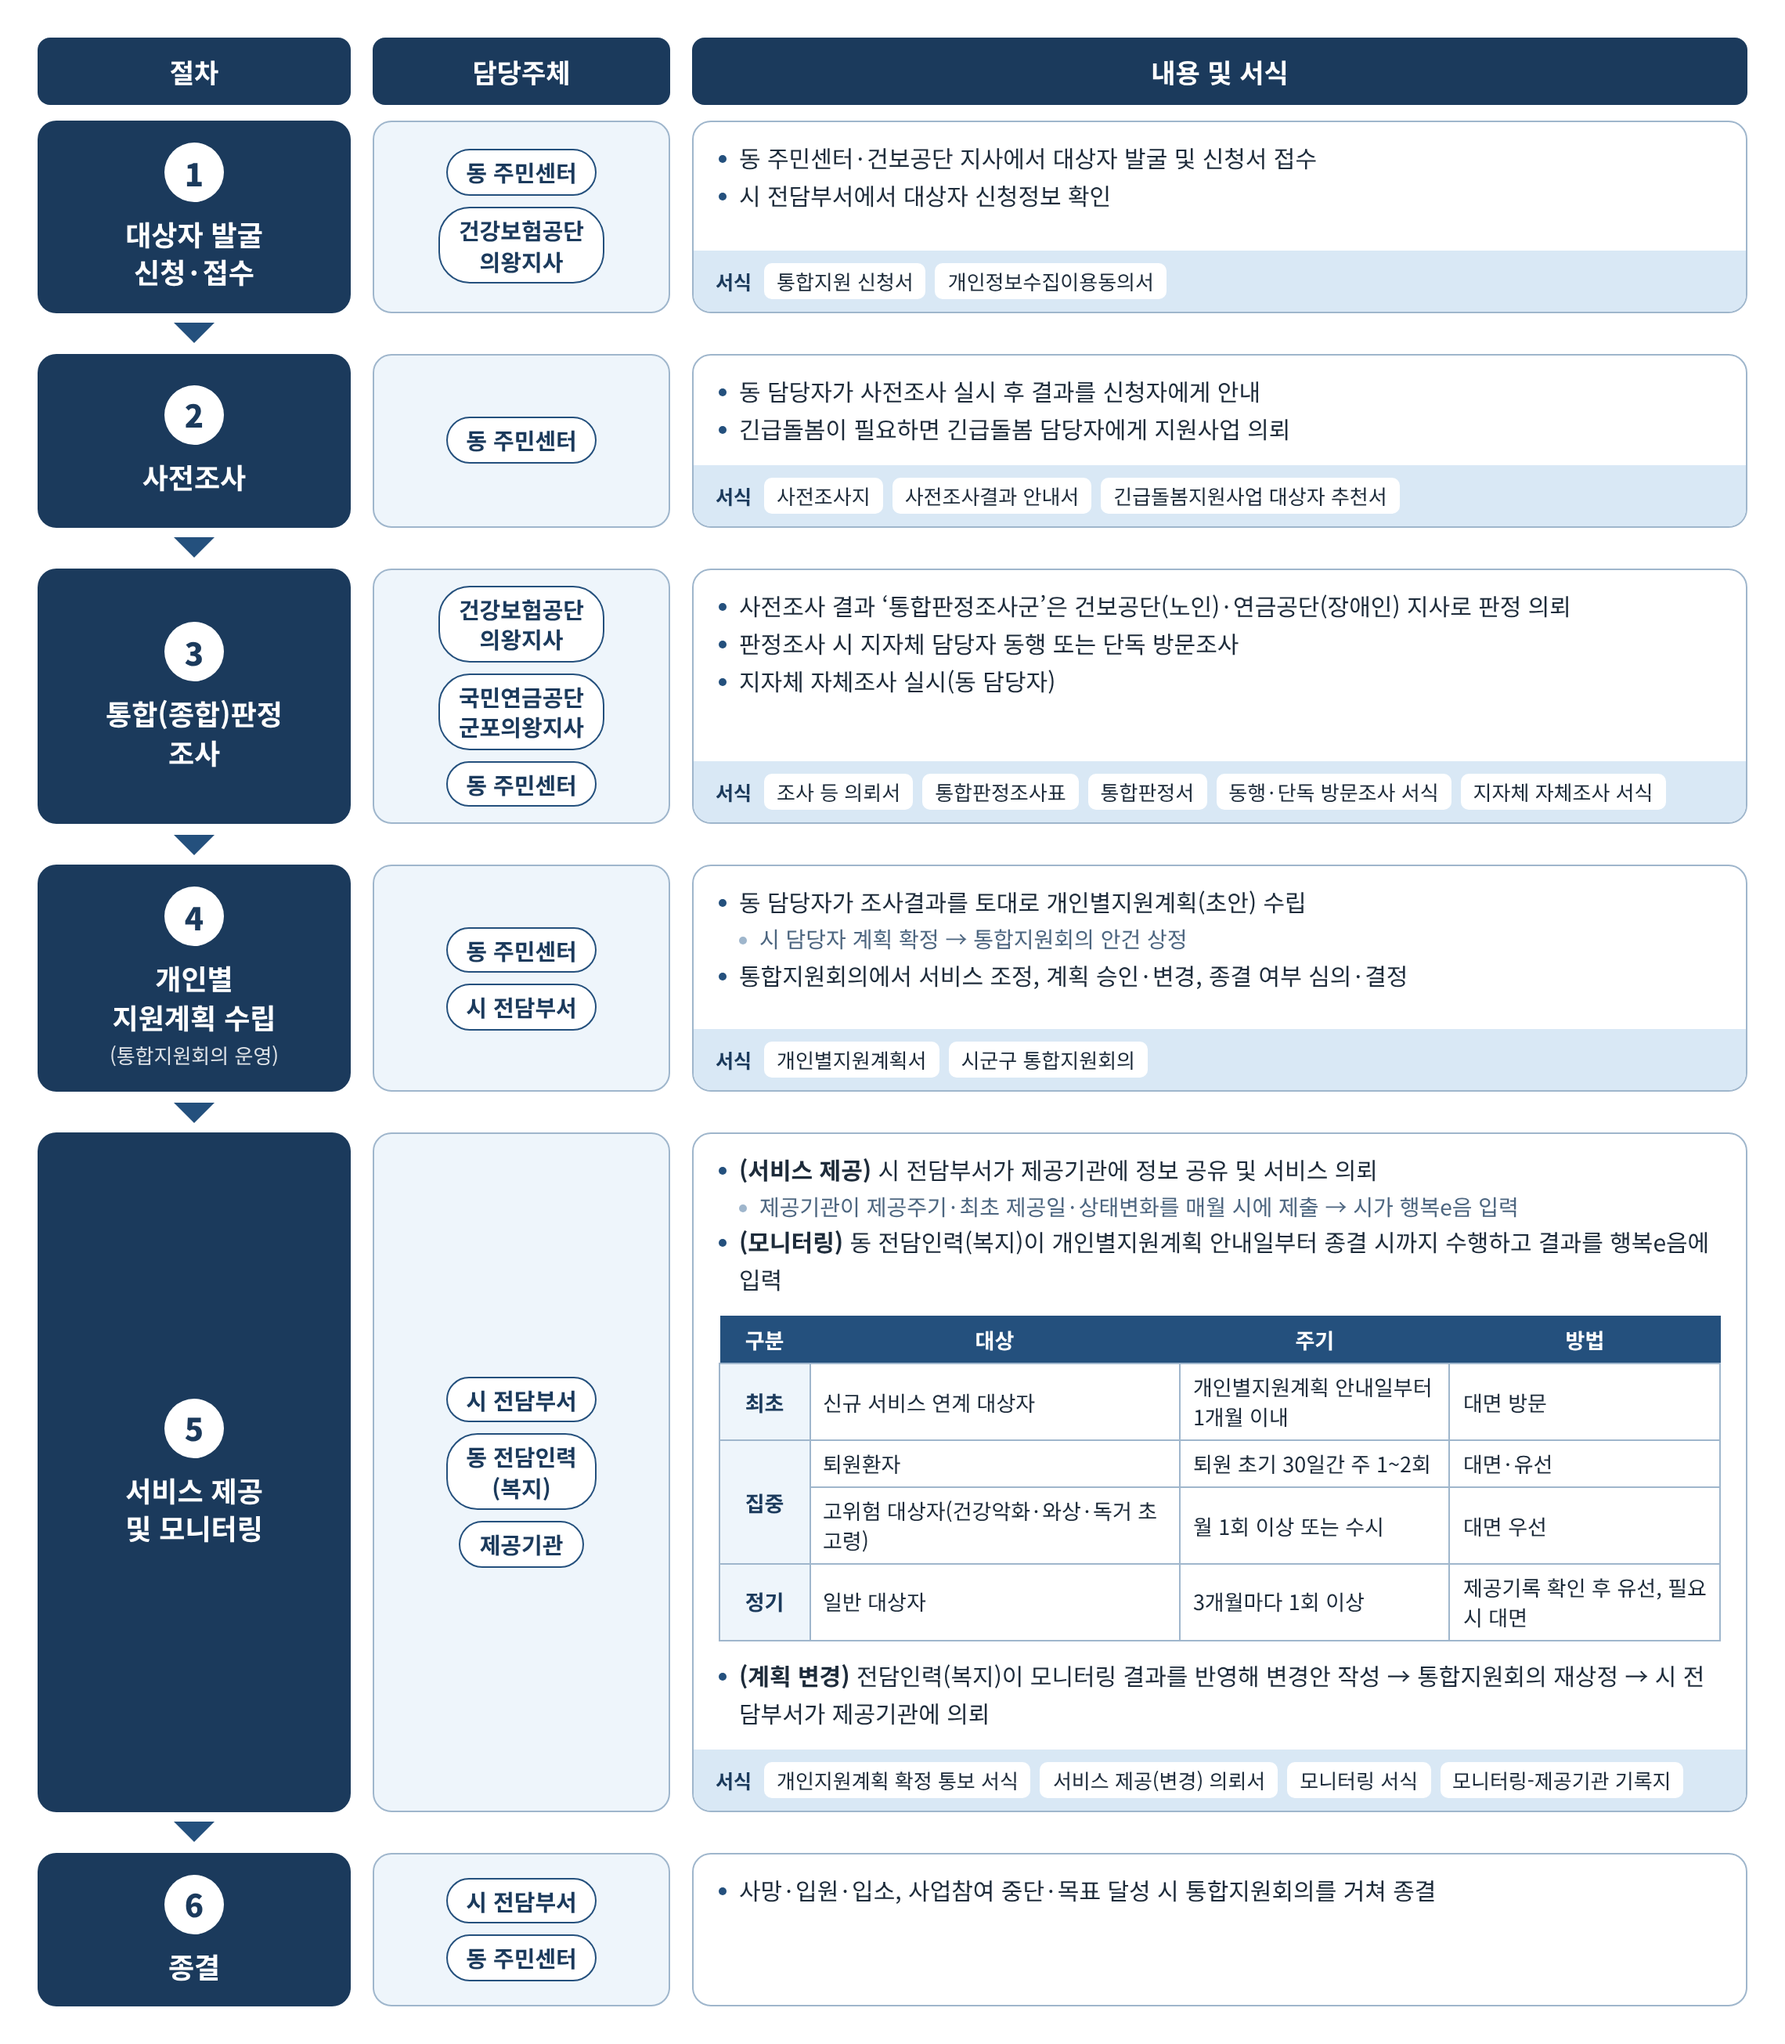
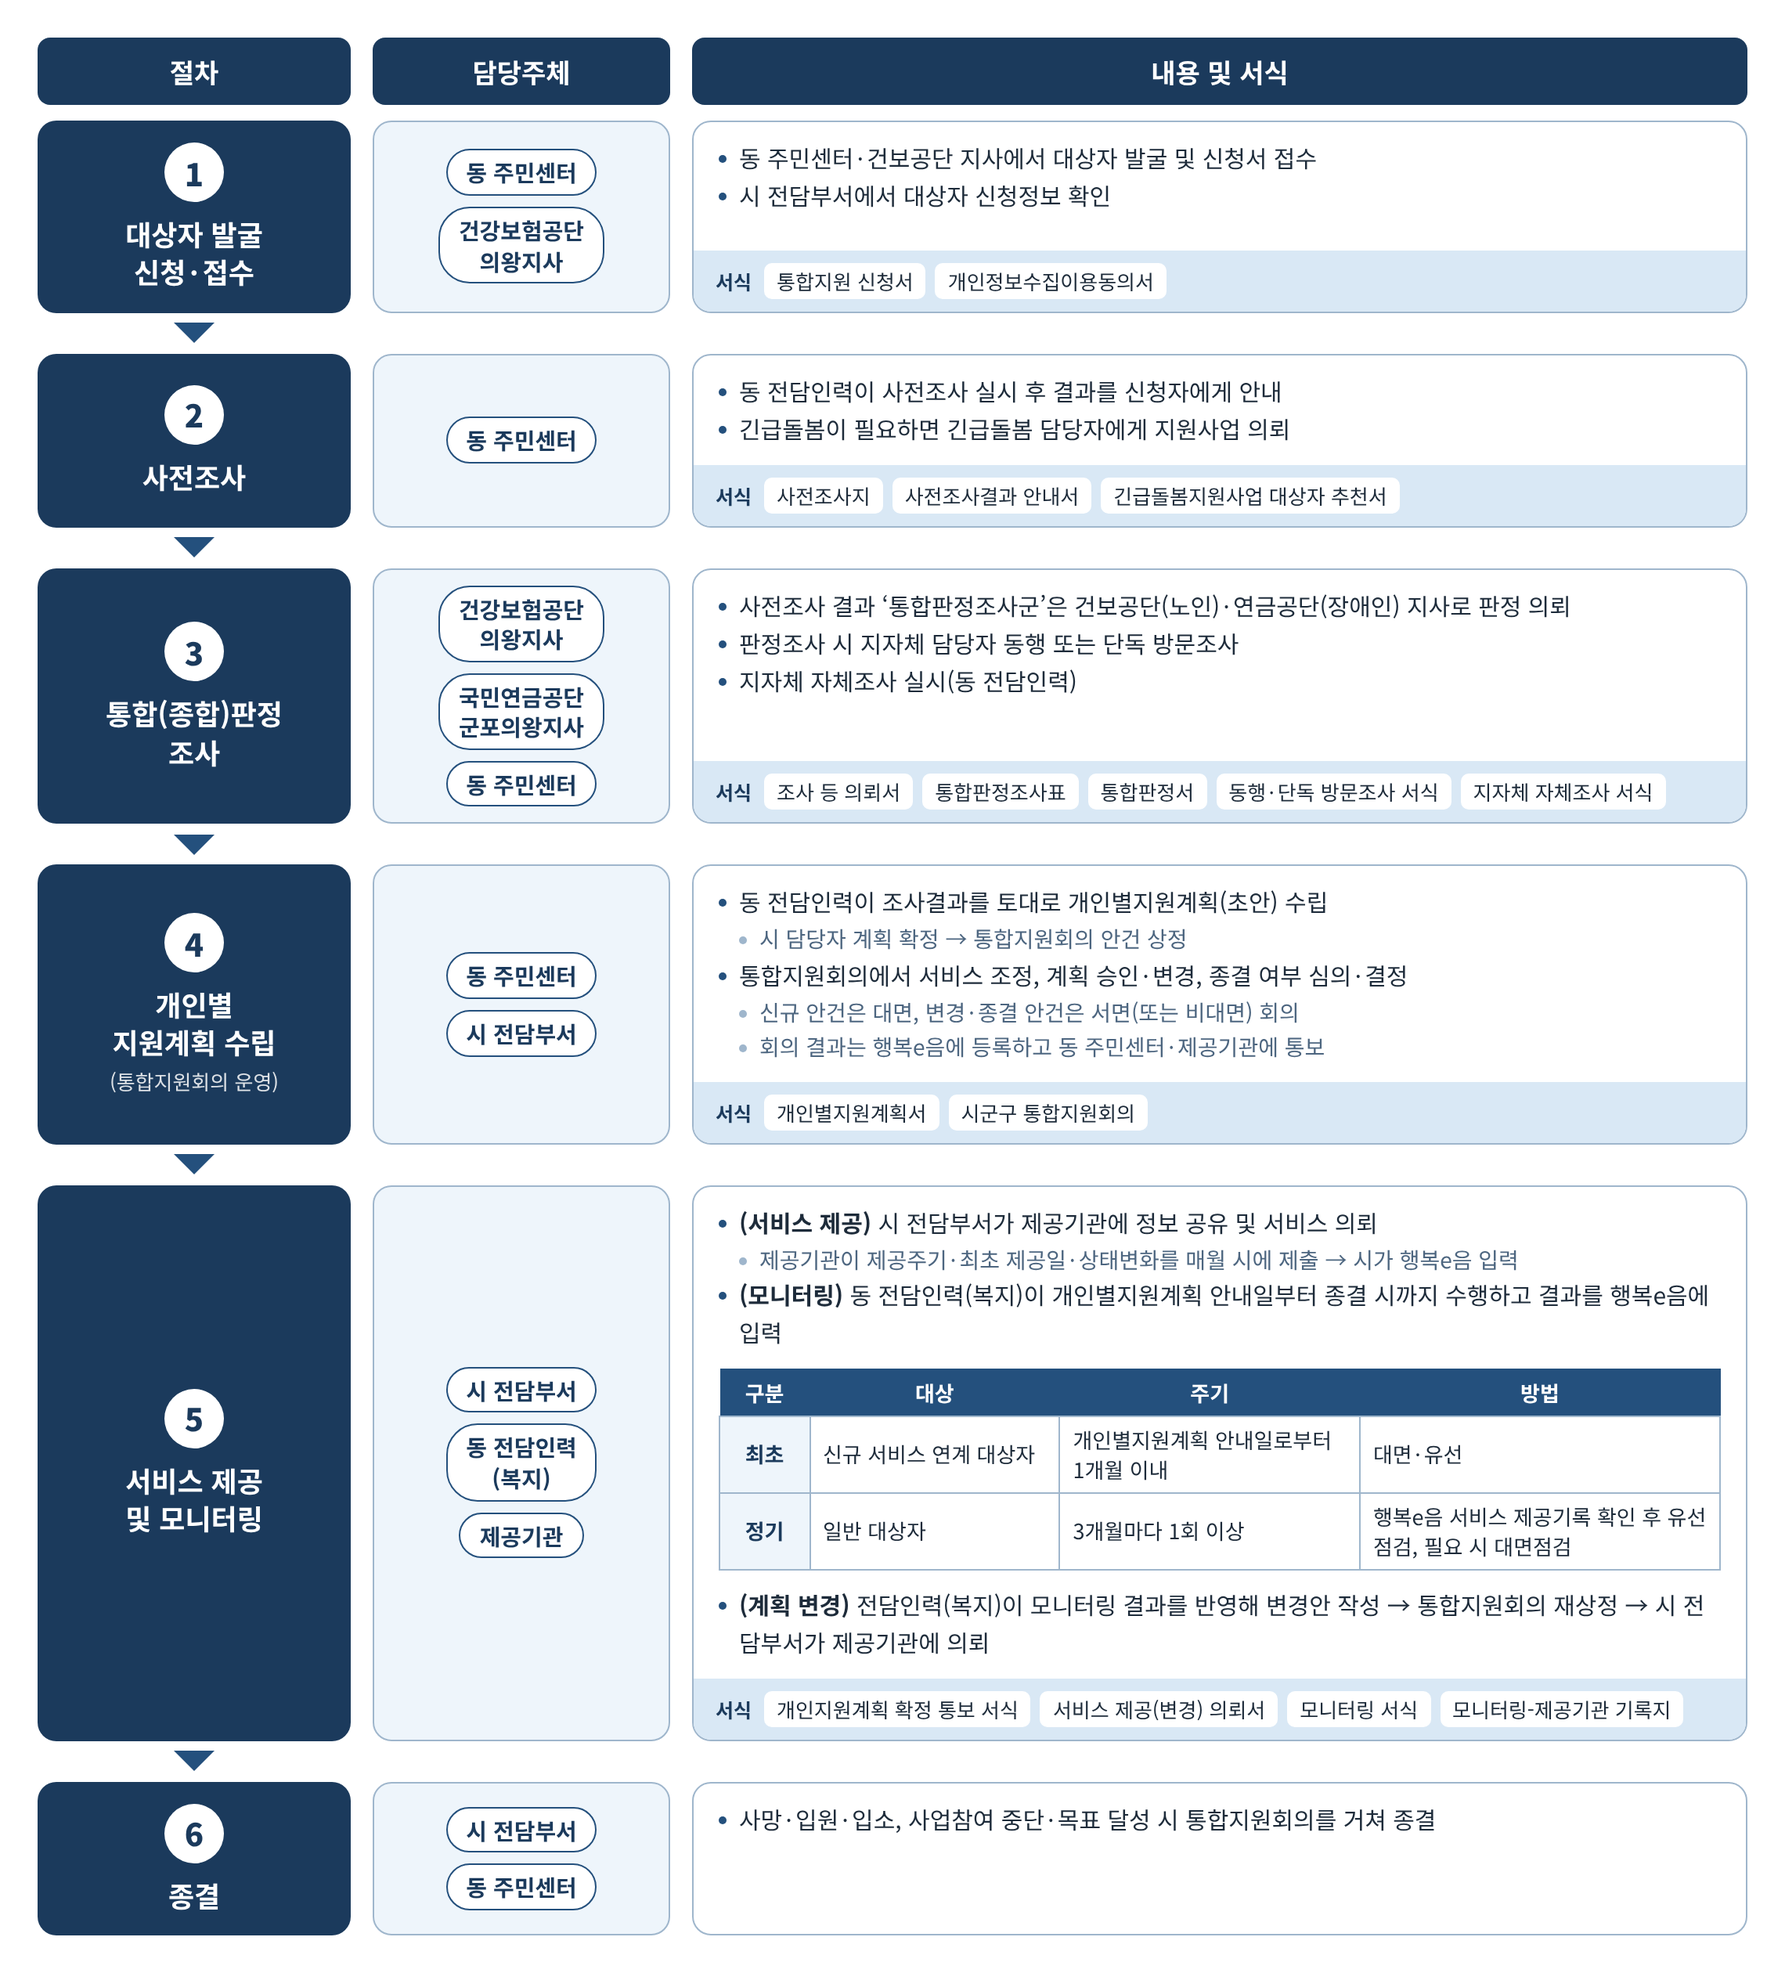
Align service flow figure monitoring table with plan text
Claude-Session: https://claude.ai/code/session_01Rws36rz6FMs9qvhqTvH8uK

diff --git a/docs/uiwang-2027-plan/figures/src/flow.html b/docs/uiwang-2027-plan/figures/src/flow.html
@@ -48,7 +48,7 @@ body{font-family:'Noto Sans KR',sans-serif;color:var(--text);background:#fff;pad
   <div class="badge"><div class="n">2</div><div class="t">사전조사</div></div>
   <div class="who"><span>동 주민센터</span></div>
   <div class="body"><ul>
-    <li>동 담당자가 사전조사 실시 후 결과를 신청자에게 안내</li>
+    <li>동 전담인력이 사전조사 실시 후 결과를 신청자에게 안내</li>
     <li>긴급돌봄이 필요하면 긴급돌봄 담당자에게 지원사업 의뢰</li>
   </ul><div class="forms"><em>서식</em><span>사전조사지</span><span>사전조사결과 안내서</span><span>긴급돌봄지원사업 대상자 추천서</span></div></div>
 </div>
@@ -60,7 +60,7 @@ body{font-family:'Noto Sans KR',sans-serif;color:var(--text);background:#fff;pad
   <div class="body"><ul>
     <li>사전조사 결과 ‘통합판정조사군’은 건보공단(노인)·연금공단(장애인) 지사로 판정 의뢰</li>
     <li>판정조사 시 지자체 담당자 동행 또는 단독 방문조사</li>
-    <li>지자체 자체조사 실시(동 담당자)</li>
+    <li>지자체 자체조사 실시(동 전담인력)</li>
   </ul><div class="forms"><em>서식</em><span>조사 등 의뢰서</span><span>통합판정조사표</span><span>통합판정서</span><span>동행·단독 방문조사 서식</span><span>지자체 자체조사 서식</span></div></div>
 </div>
 <div class="arrow"><div></div></div>
@@ -69,9 +69,11 @@ body{font-family:'Noto Sans KR',sans-serif;color:var(--text);background:#fff;pad
   <div class="badge"><div class="n">4</div><div class="t">개인별<br>지원계획 수립</div><div class="s">(통합지원회의 운영)</div></div>
   <div class="who"><span>동 주민센터</span><span>시 전담부서</span></div>
   <div class="body"><ul>
-    <li>동 담당자가 조사결과를 토대로 개인별지원계획(초안) 수립</li>
+    <li>동 전담인력이 조사결과를 토대로 개인별지원계획(초안) 수립</li>
     <li class="sub">시 담당자 계획 확정 → 통합지원회의 안건 상정</li>
     <li>통합지원회의에서 서비스 조정, 계획 승인·변경, 종결 여부 심의·결정</li>
+    <li class="sub">신규 안건은 대면, 변경·종결 안건은 서면(또는 비대면) 회의</li>
+    <li class="sub">회의 결과는 행복e음에 등록하고 동 주민센터·제공기관에 통보</li>
   </ul><div class="forms"><em>서식</em><span>개인별지원계획서</span><span>시군구 통합지원회의</span></div></div>
 </div>
 <div class="arrow"><div></div></div>
@@ -84,12 +86,10 @@ body{font-family:'Noto Sans KR',sans-serif;color:var(--text);background:#fff;pad
     <li class="sub">제공기관이 제공주기·최초 제공일·상태변화를 매월 시에 제출 → 시가 행복e음 입력</li>
     <li><b>(모니터링)</b> 동 전담인력(복지)이 개인별지원계획 안내일부터 종결 시까지 수행하고 결과를 행복e음에 입력</li>
   </ul>
-  <table class="mt"><colgroup><col style="width:9%"><col style="width:37%"><col style="width:27%"><col style="width:27%"></colgroup>
+  <table class="mt"><colgroup><col style="width:9%"><col style="width:25%"><col style="width:30%"><col style="width:36%"></colgroup>
     <tr><th>구분</th><th>대상</th><th>주기</th><th>방법</th></tr>
-    <tr><td class="g">최초</td><td>신규 서비스 연계 대상자</td><td>개인별지원계획 안내일부터 1개월 이내</td><td>대면 방문</td></tr>
-    <tr><td class="g" rowspan="2">집중</td><td>퇴원환자</td><td>퇴원 초기 30일간 주 1~2회</td><td>대면·유선</td></tr>
-    <tr><td>고위험 대상자(건강악화·와상·독거 초고령)</td><td>월 1회 이상 또는 수시</td><td>대면 우선</td></tr>
-    <tr><td class="g">정기</td><td>일반 대상자</td><td>3개월마다 1회 이상</td><td>제공기록 확인 후 유선, 필요 시 대면</td></tr>
+    <tr><td class="g">최초</td><td>신규 서비스 연계 대상자</td><td>개인별지원계획 안내일로부터 1개월 이내</td><td>대면·유선</td></tr>
+    <tr><td class="g">정기</td><td>일반 대상자</td><td>3개월마다 1회 이상</td><td>행복e음 서비스 제공기록 확인 후 유선점검, 필요 시 대면점검</td></tr>
   </table>
   <ul style="flex:0;padding-top:6px">
     <li><b>(계획 변경)</b> 전담인력(복지)이 모니터링 결과를 반영해 변경안 작성 → 통합지원회의 재상정 → 시 전담부서가 제공기관에 의뢰</li>
